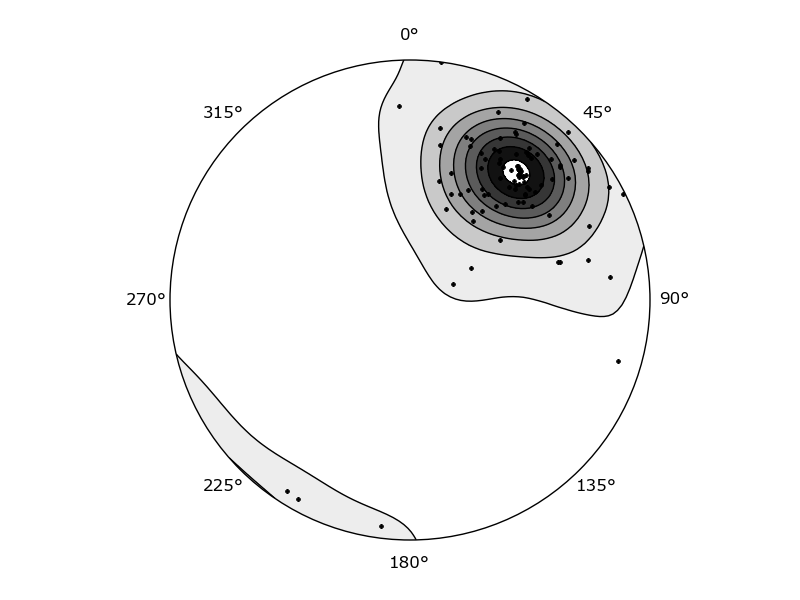
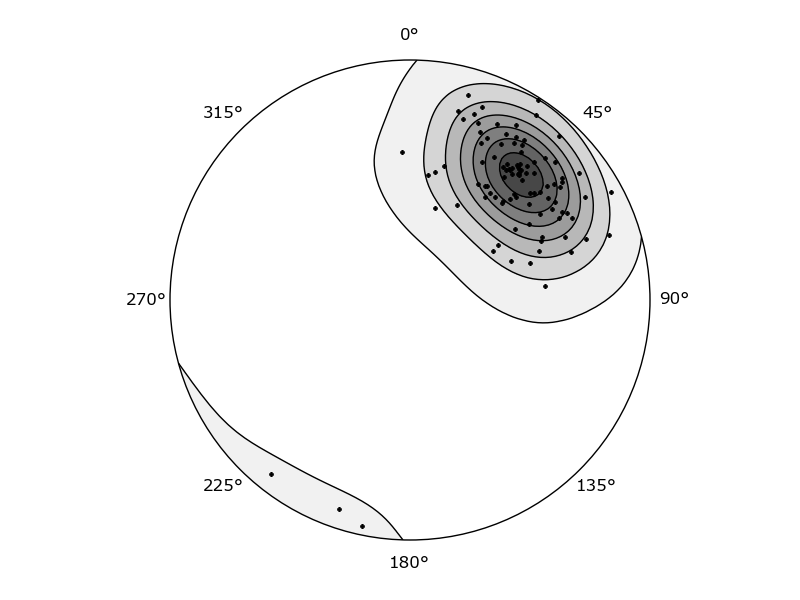
Readme fix.

diff --git a/README.md b/README.md
@@ -269,8 +269,8 @@ To make density contours plots, a `density_contour` and `density_contourf` metho
 ~~~~ {.python}
 >>> s = StereoNet()
 >>> g = Group.randn_lin(mean=Lin(40,30))
->>> s.density_contourf(g, levels=range(1,40,5), cmap='gray_r')
->>> s.density_contour(g, levels=range(1,40,5), colors='k')
+>>> s.density_contourf(g, levels=range(1,50,5), cmap='gray_r')
+>>> s.density_contour(g, levels=range(1,50,5), colors='k')
 >>> s.line(g, 'k.')
 >>> plt.show()
 ~~~~
